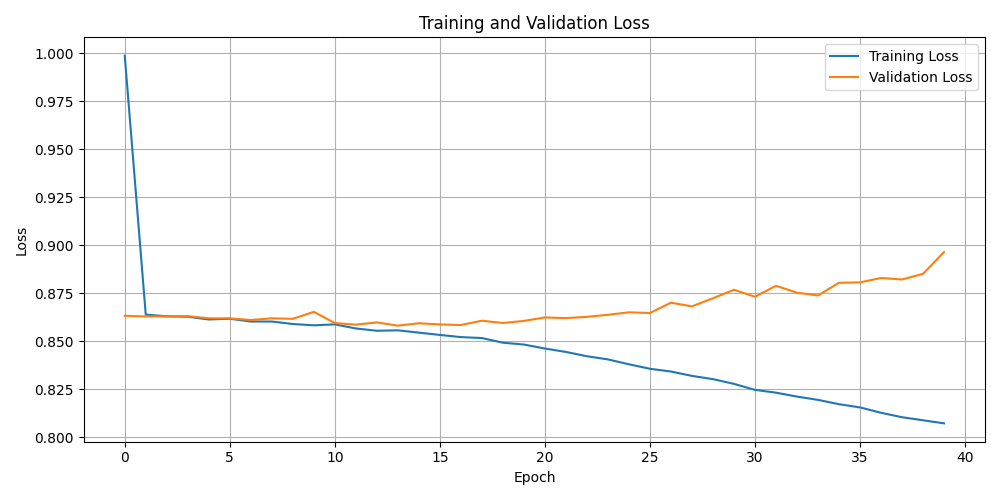
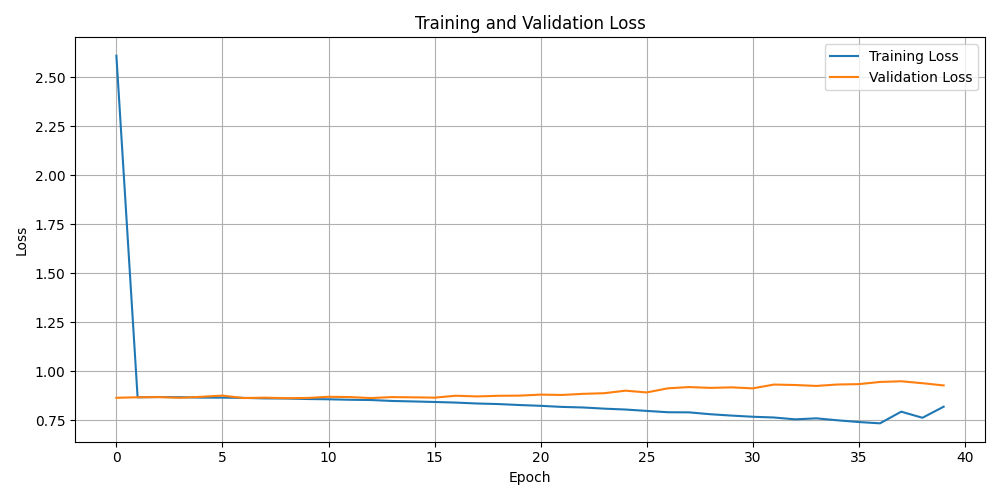
updated results

diff --git a/project/training/nn.py b/project/training/nn.py
@@ -50,15 +50,13 @@ class Net(nn.Module):
     def __init__(self, input_size):
         super(Net, self).__init__()
         self.model = nn.Sequential(
-            nn.Linear(input_size, 256),
+            nn.Linear(input_size, 1024),
             nn.ReLU(),
-            nn.Linear(256, 128),
+            nn.Linear(1024, 1024),
             nn.ReLU(),
-            nn.Linear(128, 64),
+            nn.Linear(1024, 1024),
             nn.ReLU(),
-            nn.Linear(64, 32),
-            nn.ReLU(),
-            nn.Linear(32, 1)
+            nn.Linear(1024, 1)
         )
 
     def forward(self, x):
@@ -80,8 +78,8 @@ def create_datasets(df, n_lower, n_upper, k_lower, k_upper, m_lower):
                 train_subset = torch.utils.data.Subset(full_dataset, train_indices)
                 val_subset = torch.utils.data.Subset(full_dataset, val_indices)
 
-                train_loader = DataLoader(train_subset, batch_size=512, shuffle=True)
-                val_loader = DataLoader(val_subset, batch_size=512, shuffle=False)
+                train_loader = DataLoader(train_subset, batch_size=512, num_workers=4, pin_memory=True, shuffle=True)
+                val_loader = DataLoader(val_subset, batch_size=512, num_workers=4, pin_memory=True, shuffle=False)
                 if(not datasets.get(n, None)):
                     datasets[n] = {}
                 if(not datasets[n].get(k, None)):

diff --git a/project/test.cpp b/project/test.cpp
@@ -9,9 +9,9 @@ int main(){
     cout << result << "\n";
     */
  	std::vector<std::vector<double>> matrix = {
-    {1.0, 0.0, 0.0,  1.157,  0.017,  1.164,  1.353,  1.353},
-    {0.0, 1.0, 0.0, -0.076, -0.741, -0.888, -1.495, -1.495},
-    {0.0, 0.0, 1.0,  1.075, -0.702,  0.876, -0.266, -0.266}
+    {1.0, 0.0, 0.0,  -.298,  -.954, 1.01 ,  -.104,  -.145, 893},
+    {0.0, 1.0, 0.0, .004, .784, -1.751, -.882, -.802, -1.202},
+    {0.0, 0.0, 1.0,  -.911, .346, .841, .655, .613, -.594}
   };
   double result = solve(3, 8, matrix, 3);
 	cout << result << "\n"; 

diff --git a/project/parser.py b/project/parser.py
@@ -50,7 +50,7 @@ def main():
     df = pd.DataFrame(results)
     
     # Save the DataFrame to disk using joblib.
-    joblib.dump(df, "results_dataframe.pkl")
+    joblib.dump(df, "large_results_dataframe.pkl")
     print("DataFrame saved to results_dataframe.pkl")
     
     # Display DataFrame statistics:
